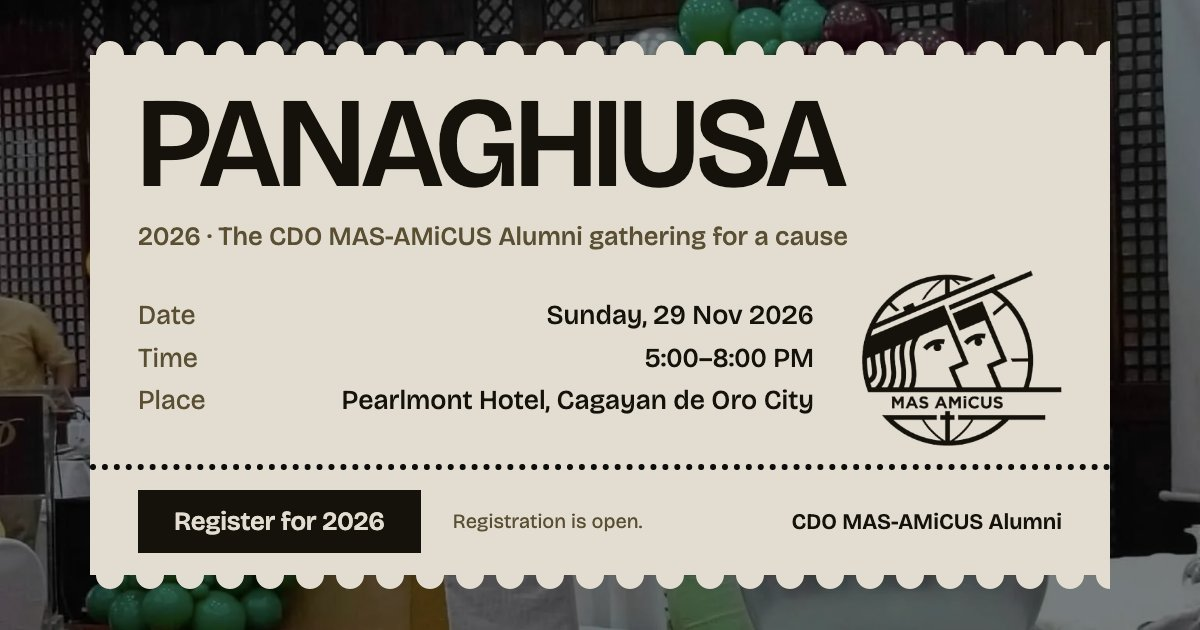
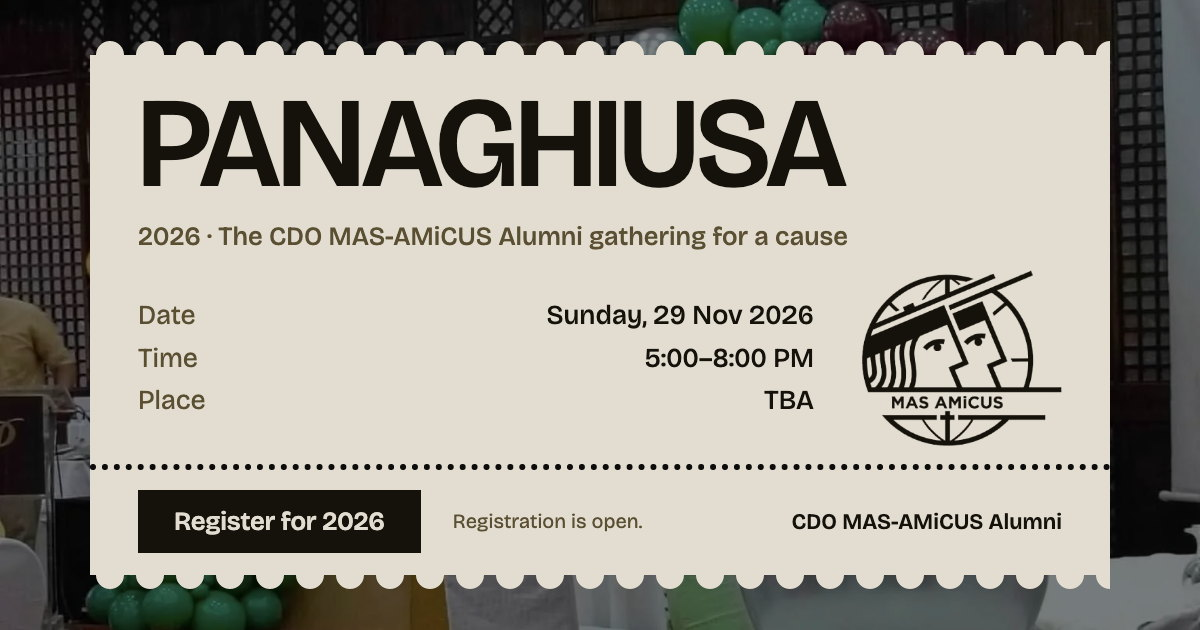
Update event details for Panaghiusa 2026, changing venue references to "TBA" across all relevant files. Adjusted Open Graph and meta descriptions to reflect the updated venue status. Incremented asset versioning for images and scripts to ensure proper loading. Updated documentation to note the venue

Changed region(s): [[0.2775, 0.6032, 0.6783, 0.6635]]

diff --git a/index.html b/index.html
@@ -3,30 +3,30 @@
   <head>
     <meta charset="utf-8">
     <meta name="viewport" content="width=device-width, initial-scale=1">
-    <title>Panaghiusa 2026 · 29 Nov, Pearlmont Hotel, CDO</title>
+    <title>Panaghiusa 2026 · 29 Nov, venue TBA</title>
     <meta
       name="description"
-      content="Panaghiusa 2026, the CDO MAS-AMiCUS Alumni gathering for a cause: Sunday 29 November, 5:00–8:00 PM, Pearlmont Hotel, Cagayan de Oro City.">
+      content="Panaghiusa 2026, the CDO MAS-AMiCUS Alumni gathering for a cause: Sunday 29 November, 5:00–8:00 PM. Venue TBA.">
     <meta property="og:title" content="Panaghiusa 2026">
     <meta
       property="og:description"
-      content="Sunday 29 Nov 2026, 5:00–8:00 PM, Pearlmont Hotel, Cagayan de Oro City. Registration is open.">
+      content="Sunday 29 Nov 2026, 5:00–8:00 PM. Venue TBA. Registration is open.">
     <meta property="og:type" content="website">
     <meta property="og:site_name" content="Panaghiusa">
     <meta property="og:url" content="https://panaghiusa.info/">
     <meta name="theme-color" content="#0d0c0a">
     <meta
       property="og:image"
-      content="https://panaghiusa.info/assets/img/og/panaghiusa-2026.jpg?v=4">
+      content="https://panaghiusa.info/assets/img/og/panaghiusa-2026.jpg?v=5">
     <meta property="og:image:width" content="1200">
     <meta property="og:image:height" content="630">
     <meta
       property="og:image:alt"
-      content="Panaghiusa 2026: Sunday, 29 November 2026, 5:00–8:00 PM, Pearlmont Hotel, Cagayan de Oro City. Registration is open.">
+      content="Panaghiusa 2026: Sunday, 29 November 2026, 5:00–8:00 PM. Venue TBA. Registration is open.">
     <meta name="twitter:card" content="summary_large_image">
     <meta
       name="twitter:image"
-      content="https://panaghiusa.info/assets/img/og/panaghiusa-2026.jpg?v=4">
+      content="https://panaghiusa.info/assets/img/og/panaghiusa-2026.jpg?v=5">
     <link rel="icon" href="favicon.ico" sizes="48x48">
     <link rel="apple-touch-icon" href="assets/icons/apple-touch-icon.png">
     <link
@@ -36,7 +36,7 @@
       type="font/woff2"
       crossorigin>
     <link rel="stylesheet" href="assets/css/site.css?v=24">
-    <script src="assets/js/site.js?v=9" defer></script>
+    <script src="assets/js/site.js?v=10" defer></script>
   </head>
   <body>
     <a class="skip" href="#main">Skip to content</a>
@@ -65,7 +65,7 @@
             height="2048"
             alt=""
             fetchpriority="high">
-          <!-- Source: owner, 2026-11-04 (date, time, venue). TODO(owner): cause and fee. -->
+          <!-- Source: owner, 2026-11-04 (date and time). Venue set to TBA by the owner, 2026-11-06. TODO(owner): venue, cause and fee. -->
           <article class="card paper paper--scallop-both">
             <h1 class="card__title" id="title">Panaghiusa</h1>
             <p class="card__sub">
@@ -86,7 +86,7 @@
                 </div>
                 <div class="sheet__row">
                   <dt>Place</dt>
-                  <dd>Pearlmont Hotel, Cagayan de Oro&nbsp;City</dd>
+                  <dd>TBA</dd>
                 </div>
               </dl>
               <div
@@ -256,7 +256,7 @@
           <p class="letter__sign">The Organizers</p>
           <p class="letter__role">CDO MAS-AMiCUS Alumni</p>
           <div class="letter__stub">
-            <span>29 November 2026, Pearlmont Hotel.</span>
+            <span>29 November 2026, venue TBA.</span>
             <a class="button button--ink" href="register.html">Register</a>
           </div>
         </article>
@@ -282,7 +282,7 @@
               </div>
               <div class="sheet__row">
                 <dt>Place</dt>
-                <dd>Pearlmont Hotel, Cagayan de Oro City</dd>
+                <dd>TBA</dd>
               </div>
               <div class="sheet__row">
                 <dt>Registration</dt>
@@ -499,7 +499,7 @@
         <article class="reply" data-reveal="1">
           <h2 id="reply-title">Join us on 29 November</h2>
           <p>
-            Sunday, 5:00–8:00 PM at Pearlmont Hotel, Cagayan de Oro City. Your
+            Sunday, 5:00–8:00 PM. Venue TBA. Your
             place on the night, and your share of the cause.
           </p>
           <a class="button button--ink" href="register.html">Register</a>

diff --git a/register.html b/register.html
@@ -4,24 +4,24 @@
   <meta charset="utf-8">
   <meta name="viewport" content="width=device-width, initial-scale=1">
   <title>Register · Panaghiusa 2026</title>
-  <meta name="description" content="Register for Panaghiusa 2026: Sunday 29 November, 5:00–8:00 PM, Pearlmont Hotel, Cagayan de Oro City. The Google Form takes about two minutes.">
+  <meta name="description" content="Register for Panaghiusa 2026: Sunday 29 November, 5:00–8:00 PM. Venue TBA. The Google Form takes about two minutes.">
   <meta property="og:title" content="Register for Panaghiusa 2026">
-  <meta property="og:description" content="Sunday 29 Nov 2026, 5:00–8:00 PM, Pearlmont Hotel, Cagayan de Oro City. Registration is open.">
+  <meta property="og:description" content="Sunday 29 Nov 2026, 5:00–8:00 PM. Venue TBA. Registration is open.">
   <meta property="og:type" content="website">
   <meta property="og:site_name" content="Panaghiusa">
   <meta property="og:url" content="https://panaghiusa.info/register.html">
   <meta name="theme-color" content="#0d0c0a">
-  <meta property="og:image" content="https://panaghiusa.info/assets/img/og/panaghiusa-2026.jpg?v=4">
+  <meta property="og:image" content="https://panaghiusa.info/assets/img/og/panaghiusa-2026.jpg?v=5">
   <meta property="og:image:width" content="1200">
   <meta property="og:image:height" content="630">
-  <meta property="og:image:alt" content="Panaghiusa 2026: Sunday, 29 November 2026, 5:00–8:00 PM, Pearlmont Hotel, Cagayan de Oro City. Registration is open.">
+  <meta property="og:image:alt" content="Panaghiusa 2026: Sunday, 29 November 2026, 5:00–8:00 PM. Venue TBA. Registration is open.">
   <meta name="twitter:card" content="summary_large_image">
-  <meta name="twitter:image" content="https://panaghiusa.info/assets/img/og/panaghiusa-2026.jpg?v=4">
+  <meta name="twitter:image" content="https://panaghiusa.info/assets/img/og/panaghiusa-2026.jpg?v=5">
   <link rel="icon" href="favicon.ico" sizes="48x48">
   <link rel="apple-touch-icon" href="assets/icons/apple-touch-icon.png">
   <link rel="preload" href="assets/fonts/bricolage-grotesque-latin.woff2" as="font" type="font/woff2" crossorigin>
   <link rel="stylesheet" href="assets/css/site.css?v=24">
-  <script src="assets/js/site.js?v=9" defer></script>
+  <script src="assets/js/site.js?v=10" defer></script>
 </head>
 <body>
   <a class="skip" href="#main">Skip to content</a>
@@ -40,7 +40,7 @@
     <div class="register">
       <header class="register__head">
         <h1 data-reveal>Register for 2026</h1>
-        <p data-reveal="1">Sunday 29 November, 5:00–8:00 PM at Pearlmont Hotel, Cagayan de Oro City. The yearly CDO MAS-AMiCUS Alumni gathering, for a cause.</p>
+        <p data-reveal="1">Sunday 29 November, 5:00–8:00 PM. Venue TBA. The yearly CDO MAS-AMiCUS Alumni gathering, for a cause.</p>
       </header>
 
       <figure class="register__photo" data-reveal data-details="Panaghiusa 2025 for a Cause, 13 December 2025. The alumni gave medicines, a hospital bed and cleaning materials to House of Hope, and renovated a church comfort room.">
@@ -57,11 +57,11 @@
 
       <article class="reply" data-reveal="1" aria-labelledby="how-title">
         <div class="state state--open">
-          <!-- Source: owner, 2026-11-04 (date, time, venue). TODO(owner): cause, fee and inclusions (docs/REGISTRATION.md §3). -->
+          <!-- Source: owner, 2026-11-04 (date and time). Venue set to TBA by the owner, 2026-11-06. TODO(owner): venue, cause, fee and inclusions (docs/REGISTRATION.md §3). -->
           <ul class="register__facts">
             <li><time datetime="2026-11-29T17:00+08:00">Sunday, 29 November 2026</time></li>
             <li>5:00–8:00 PM, Philippine time</li>
-            <li>Pearlmont Hotel, Cagayan de Oro&nbsp;City</li>
+            <li>Venue TBA</li>
           </ul>
           <h2 id="how-title">How it works</h2>
           <ol class="steps">

diff --git a/milestones.html b/milestones.html
@@ -11,17 +11,17 @@
   <meta property="og:site_name" content="Panaghiusa">
   <meta property="og:url" content="https://panaghiusa.info/milestones.html">
   <meta name="theme-color" content="#0d0c0a">
-  <meta property="og:image" content="https://panaghiusa.info/assets/img/og/panaghiusa-2026.jpg?v=4">
+  <meta property="og:image" content="https://panaghiusa.info/assets/img/og/panaghiusa-2026.jpg?v=5">
   <meta property="og:image:width" content="1200">
   <meta property="og:image:height" content="630">
-  <meta property="og:image:alt" content="Panaghiusa 2026: Sunday, 29 November 2026, 5:00–8:00 PM, Pearlmont Hotel, Cagayan de Oro City. Registration is open.">
+  <meta property="og:image:alt" content="Panaghiusa 2026: Sunday, 29 November 2026, 5:00–8:00 PM. Venue TBA. Registration is open.">
   <meta name="twitter:card" content="summary_large_image">
-  <meta name="twitter:image" content="https://panaghiusa.info/assets/img/og/panaghiusa-2026.jpg?v=4">
+  <meta name="twitter:image" content="https://panaghiusa.info/assets/img/og/panaghiusa-2026.jpg?v=5">
   <link rel="icon" href="favicon.ico" sizes="48x48">
   <link rel="apple-touch-icon" href="assets/icons/apple-touch-icon.png">
   <link rel="preload" href="assets/fonts/bricolage-grotesque-latin.woff2" as="font" type="font/woff2" crossorigin>
   <link rel="stylesheet" href="assets/css/site.css?v=24">
-  <script src="assets/js/site.js?v=9" defer></script>
+  <script src="assets/js/site.js?v=10" defer></script>
 </head>
 <body>
   <a class="skip" href="#main">Skip to content</a>
@@ -247,7 +247,7 @@
     <div class="back__card paper paper--scallop-top">
       <div>
         <h2>Be part of the next one</h2>
-        <p>Panaghiusa 2026 is on Sunday 29 November, 5:00–8:00 PM at Pearlmont Hotel, Cagayan de Oro City. Registration is open.</p>
+        <p>Panaghiusa 2026 is on Sunday 29 November, 5:00–8:00 PM. Venue TBA. Registration is open.</p>
         <p><a class="button button--ink" href="register.html">Register</a></p>
       </div>
       <ul class="back__address">

diff --git a/assets/js/site.js b/assets/js/site.js
@@ -19,7 +19,7 @@ function countdown() {
       return;
     }
     if (now >= start) {
-      lead.textContent = "Happening now at Pearlmont Hotel.";
+      lead.textContent = "Happening now.";
       cells.hidden = true;
       return;
     }

diff --git a/docs/PROGRESS.md b/docs/PROGRESS.md
@@ -14,6 +14,8 @@ Live URL: — (not deployed)
 
 ## Log
 
+- 2026-11-06 — **2026 venue set to TBA.** The owner withdrew Pearlmont Hotel for this edition. Home (hero, letter, editions sheet, reply card), Register, the Milestones footer, the countdown’s “happening now” line, and the share poster now say the venue is TBA. Past editions that were held at Pearlmont stay named. The poster was re-rendered and the image URL bumped to `?v=5`.
+
 - 2026-11-05 — **Home letter rewritten.** "One Night a Year, United for a Cause" now carries the owner's text verbatim: begun in 2021, past causes, the 2025 House of Hope and Samay SDA Church help, and the 2026 cause (a church's Smart TV, plus recreational equipment and supplies for a rehabilitation center in Balingasag), highlighted. Open: the rest of the site still calls 2022 "the first Panaghiusa"; the cause TODOs on Home and Register are not yet filled from this text.
 
 - 2026-11-04 — **Unused images removed.** The nine full-size originals in `assets/photos/` (about 2.2 MB) were not referenced by any page, stylesheet or script; the site uses the optimized copies in `assets/img/`. They are deleted from the repo (still in git history), and `PRODUCT.md` and the consent comments in `milestones.html` now point to "the owner's original photo set". Every other image in `assets/` is in use.

diff --git a/PRODUCT.md b/PRODUCT.md
@@ -39,8 +39,8 @@ The proof is the past editions themselves: real photos, real places, organizer-s
 - The form asks only the questions in `docs/REGISTRATION.md` §2, without requiring Google sign-in; privacy summary on the page before the Register link and in the form; no analytics.
 - Performance budget: ≤ 200 KB HTML+CSS+JS gzip per page, AVIF/WebP images, at most two web font files, no carousels or autoplay video.
 - Language: English, with Cebuano/Bisaya phrases only where the organizers provide them. Never machine-translate or invent Cebuano copy.
-- Panaghiusa 2026: Sunday 29 November 2026, 5:00–8:00 PM, Pearlmont Hotel, Cagayan de Oro City.
-- Undecided (owner to supply, `docs/PLAN.md` §5): Panaghiusa 2026's cause, fee and inclusions, deadline and contact person; domain; applicable privacy law and data contact; which edition each photo is from.
+- Panaghiusa 2026: Sunday 29 November 2026, 5:00–8:00 PM. Venue TBA (the owner withdrew Pearlmont Hotel on 2026-11-06).
+- Undecided (owner to supply, `docs/PLAN.md` §5): Panaghiusa 2026's venue, cause, fee and inclusions, deadline and contact person; applicable privacy law and data contact.
 
 ## Brand Commitments
 

diff --git a/docs/PLAN.md b/docs/PLAN.md
@@ -50,7 +50,7 @@ Record answers here (replace the default column) with the date decided.
 Answered so far (2026-11-04):
 
 - **Q1:** the yearly gathering of the CDO MAS-AMiCUS Alumni in Cagayan de Oro; every edition is for a cause. Paid registration (2025: ₱999 with shirt and dinner); payment via GCash / GoTyme outside the site, reference number collected in the form.
-- **Q2 (partial):** Panaghiusa 2026 is on Sunday 29 November 2026, 5:00–8:00 PM (Philippine time, UTC+8), at Pearlmont Hotel, Cagayan de Oro City. Still pending: cause, fee and inclusions, capacity, registration close date.
+- **Q2 (partial):** Panaghiusa 2026 is on Sunday 29 November 2026, 5:00–8:00 PM (Philippine time, UTC+8). The owner withdrew the Pearlmont Hotel venue on 2026-11-06; the venue is TBA. Still pending: venue, cause, fee and inclusions, capacity, registration close date.
 - **Q5:** English, with Cebuano/Bisaya phrases only where the organizers provide them.
 - **Q8 (partial):** consented photos and organizer-sourced numbers exist; not yet handed over.
 - **Q9:** a logo and brand colors/fonts exist; treat them as a loose reference — the web direction is open.
